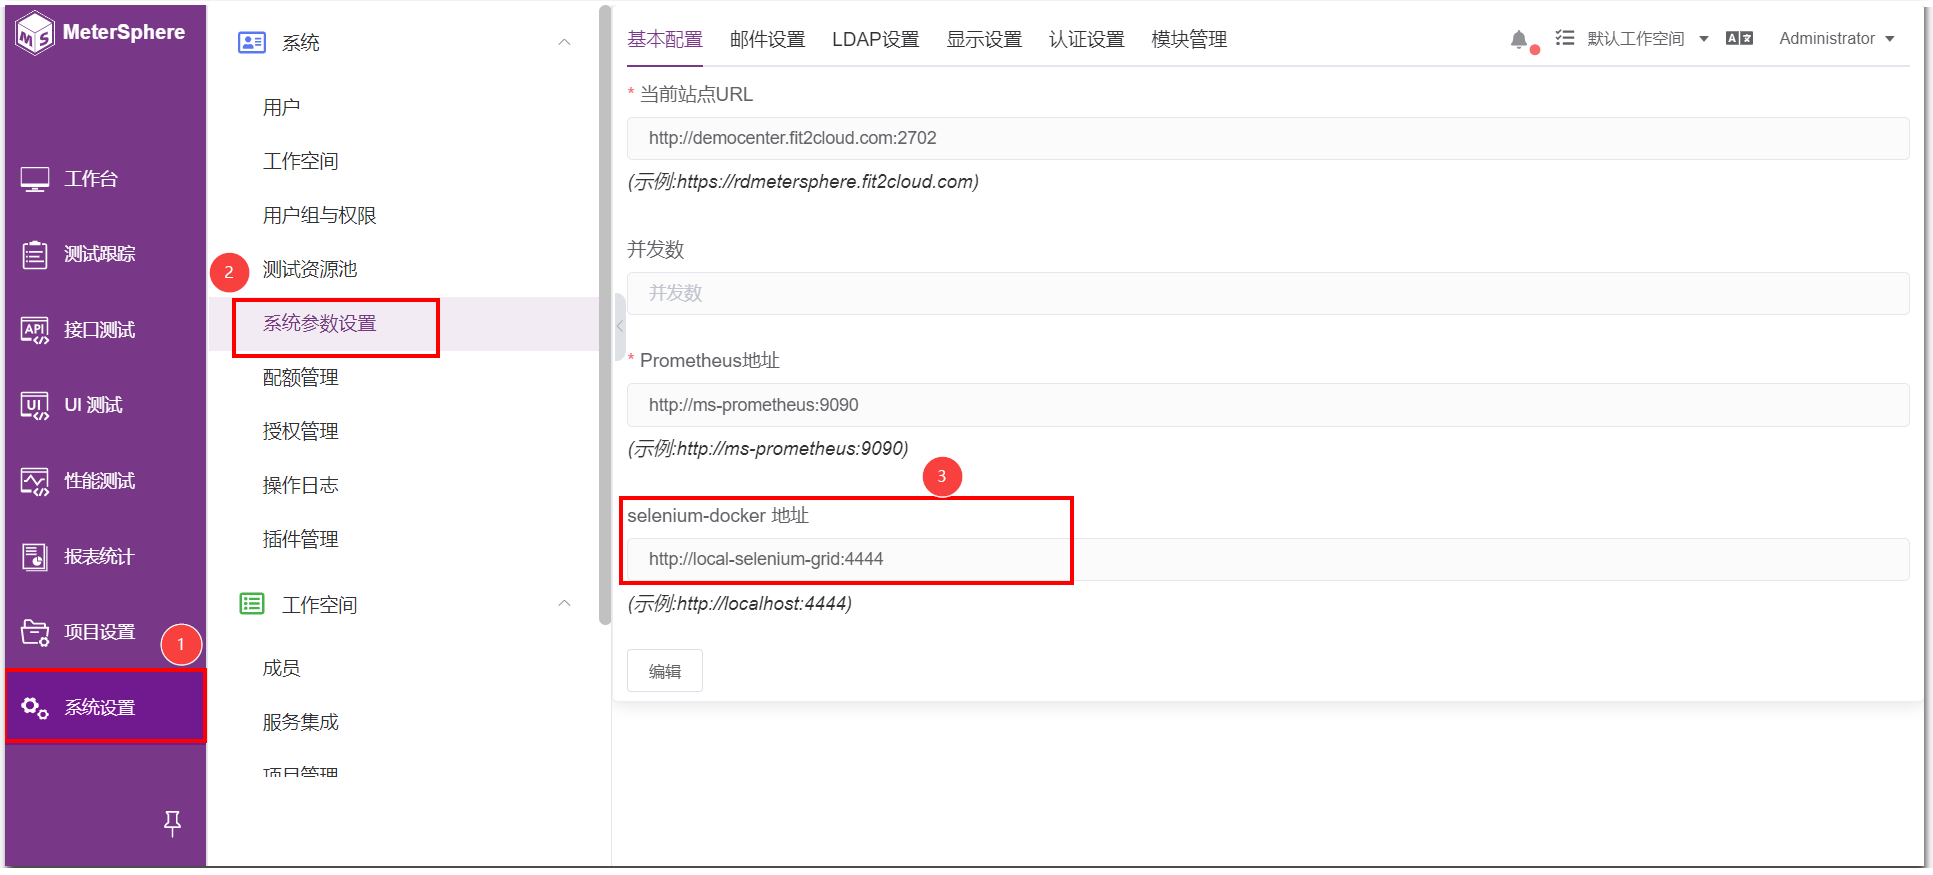
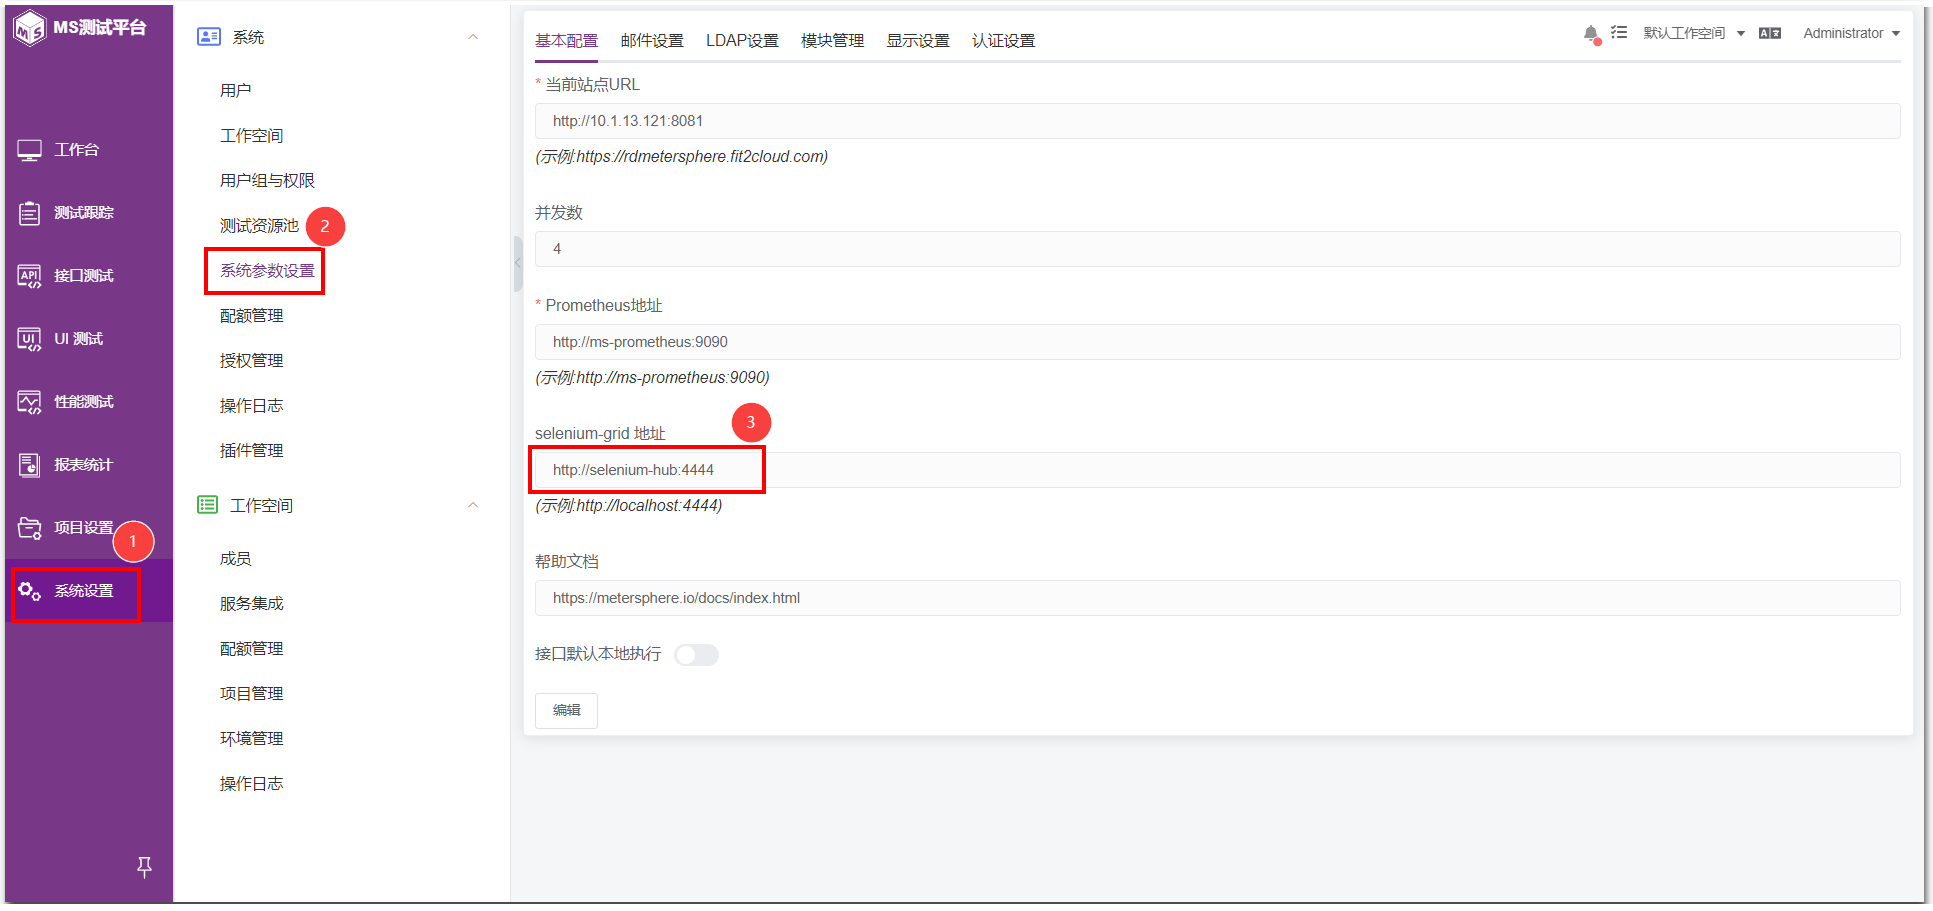
fixed: 修改“用户手册-UI模块”开启UI的内容

diff --git a/docs/user_manual/ui_test/info.md b/docs/user_manual/ui_test/info.md
@@ -1,6 +1,6 @@
-1. 修改 /opt/metersphere/.env 文件，MS_SELENIARM_ENABLED=true 修改配置后加载配置文件执行 msctl reload
+1. 修改 /opt/metersphere/.env 文件，MS_UI_ENABLED==true 修改配置后加载配置文件执行 msctl reload
 2. docker ps 检查 local-selenium-grid 容器是否成功启动
-3. 在 MeterSphere 系统参数设置中修改 selenium-docker 地址为http://local-selenium-grid:4444
+3. 在 MeterSphere 系统参数设置中修改 selenium-grid 地址为 http://selenium-hub:4444
 ![UI系统设置](../../img/ui_test/UI系统设置.png)
 4. UI测试用例，默认 "性能模式" 没有截图展示，关掉 "性能测试" 可以查看每个步骤的截图 <br>
 5. 如果导入 License 成功后，依然没有 UI 测试模块，请到【用户组与权限】处配置 UI 模块权限
